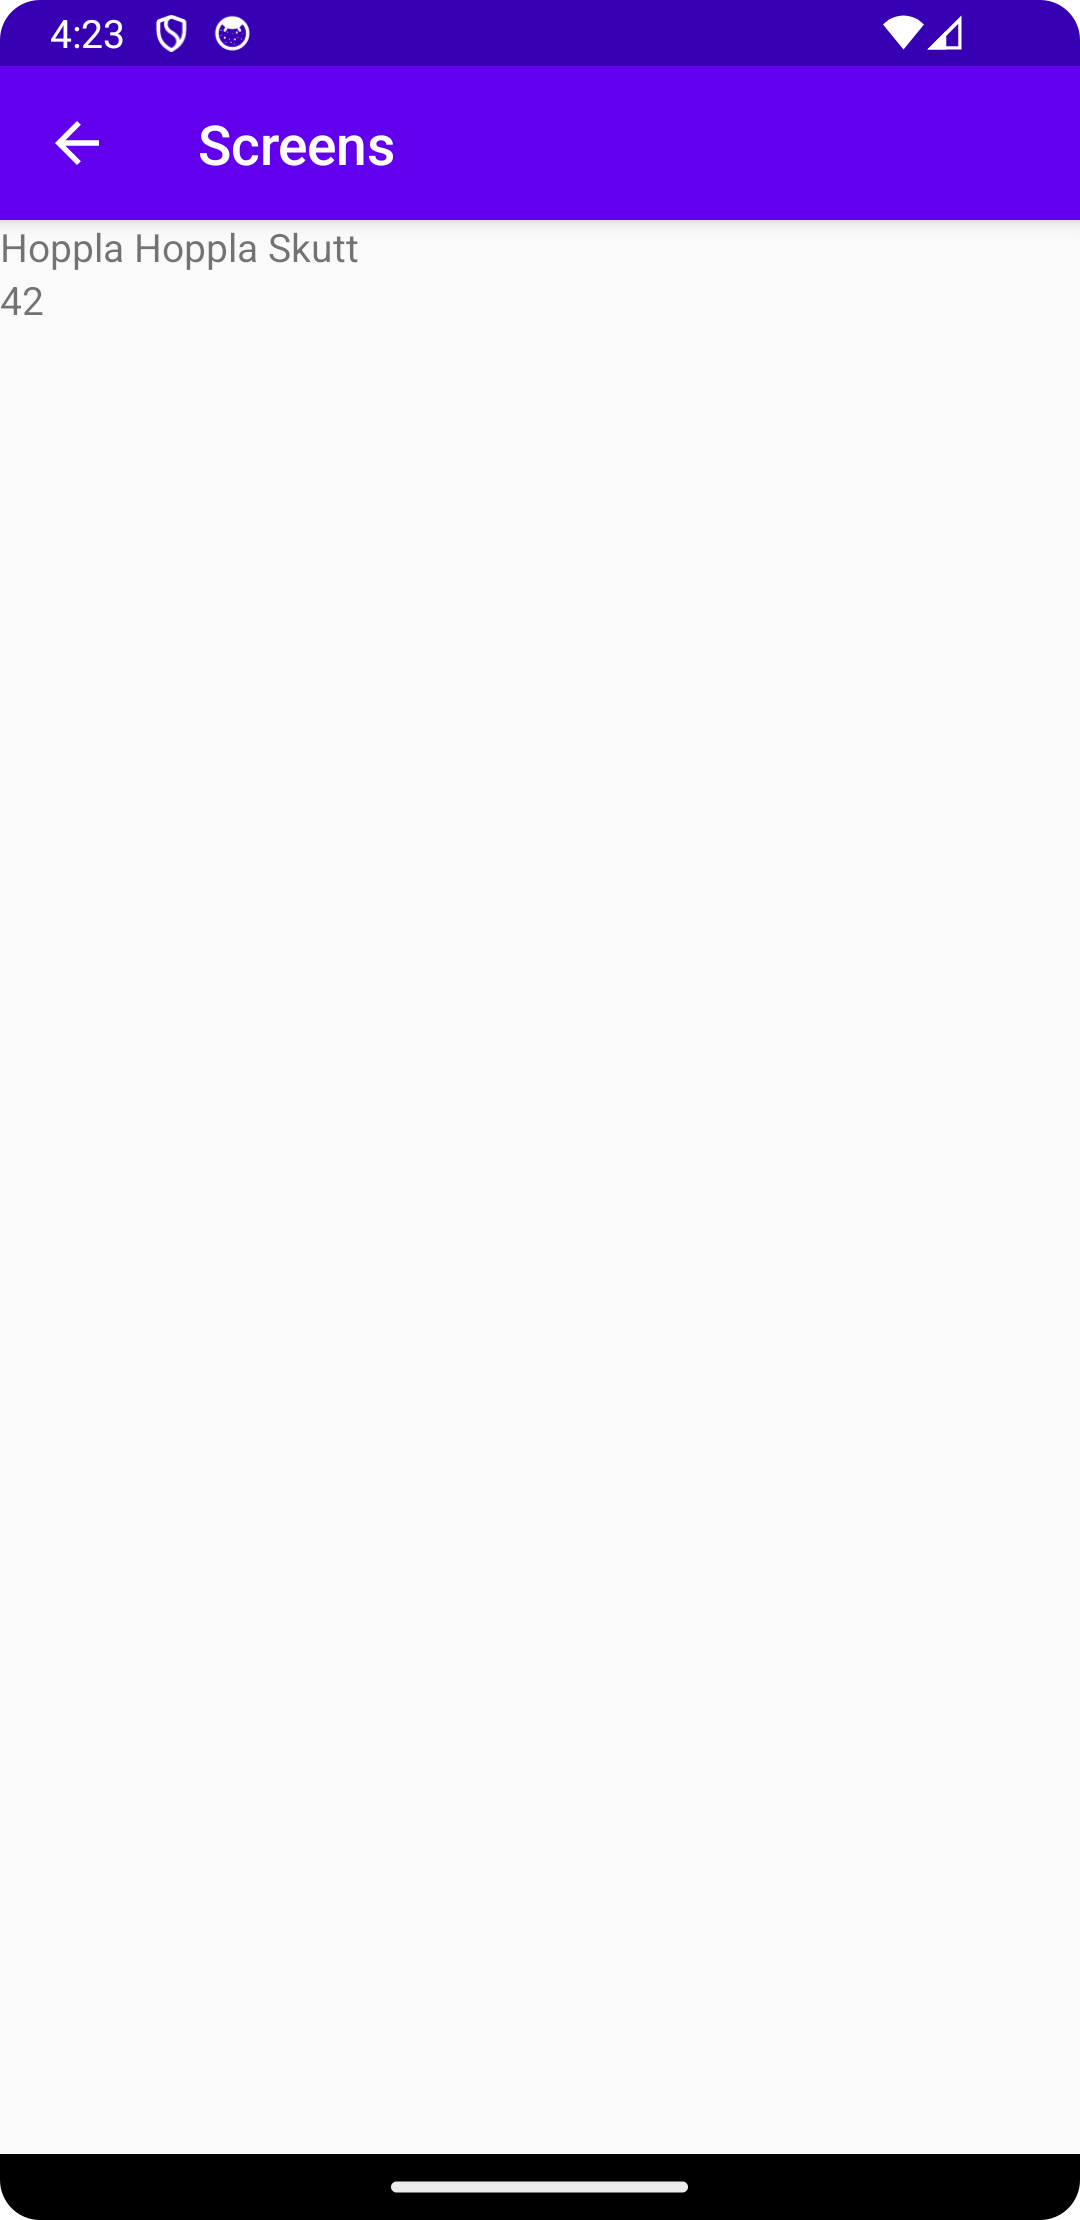
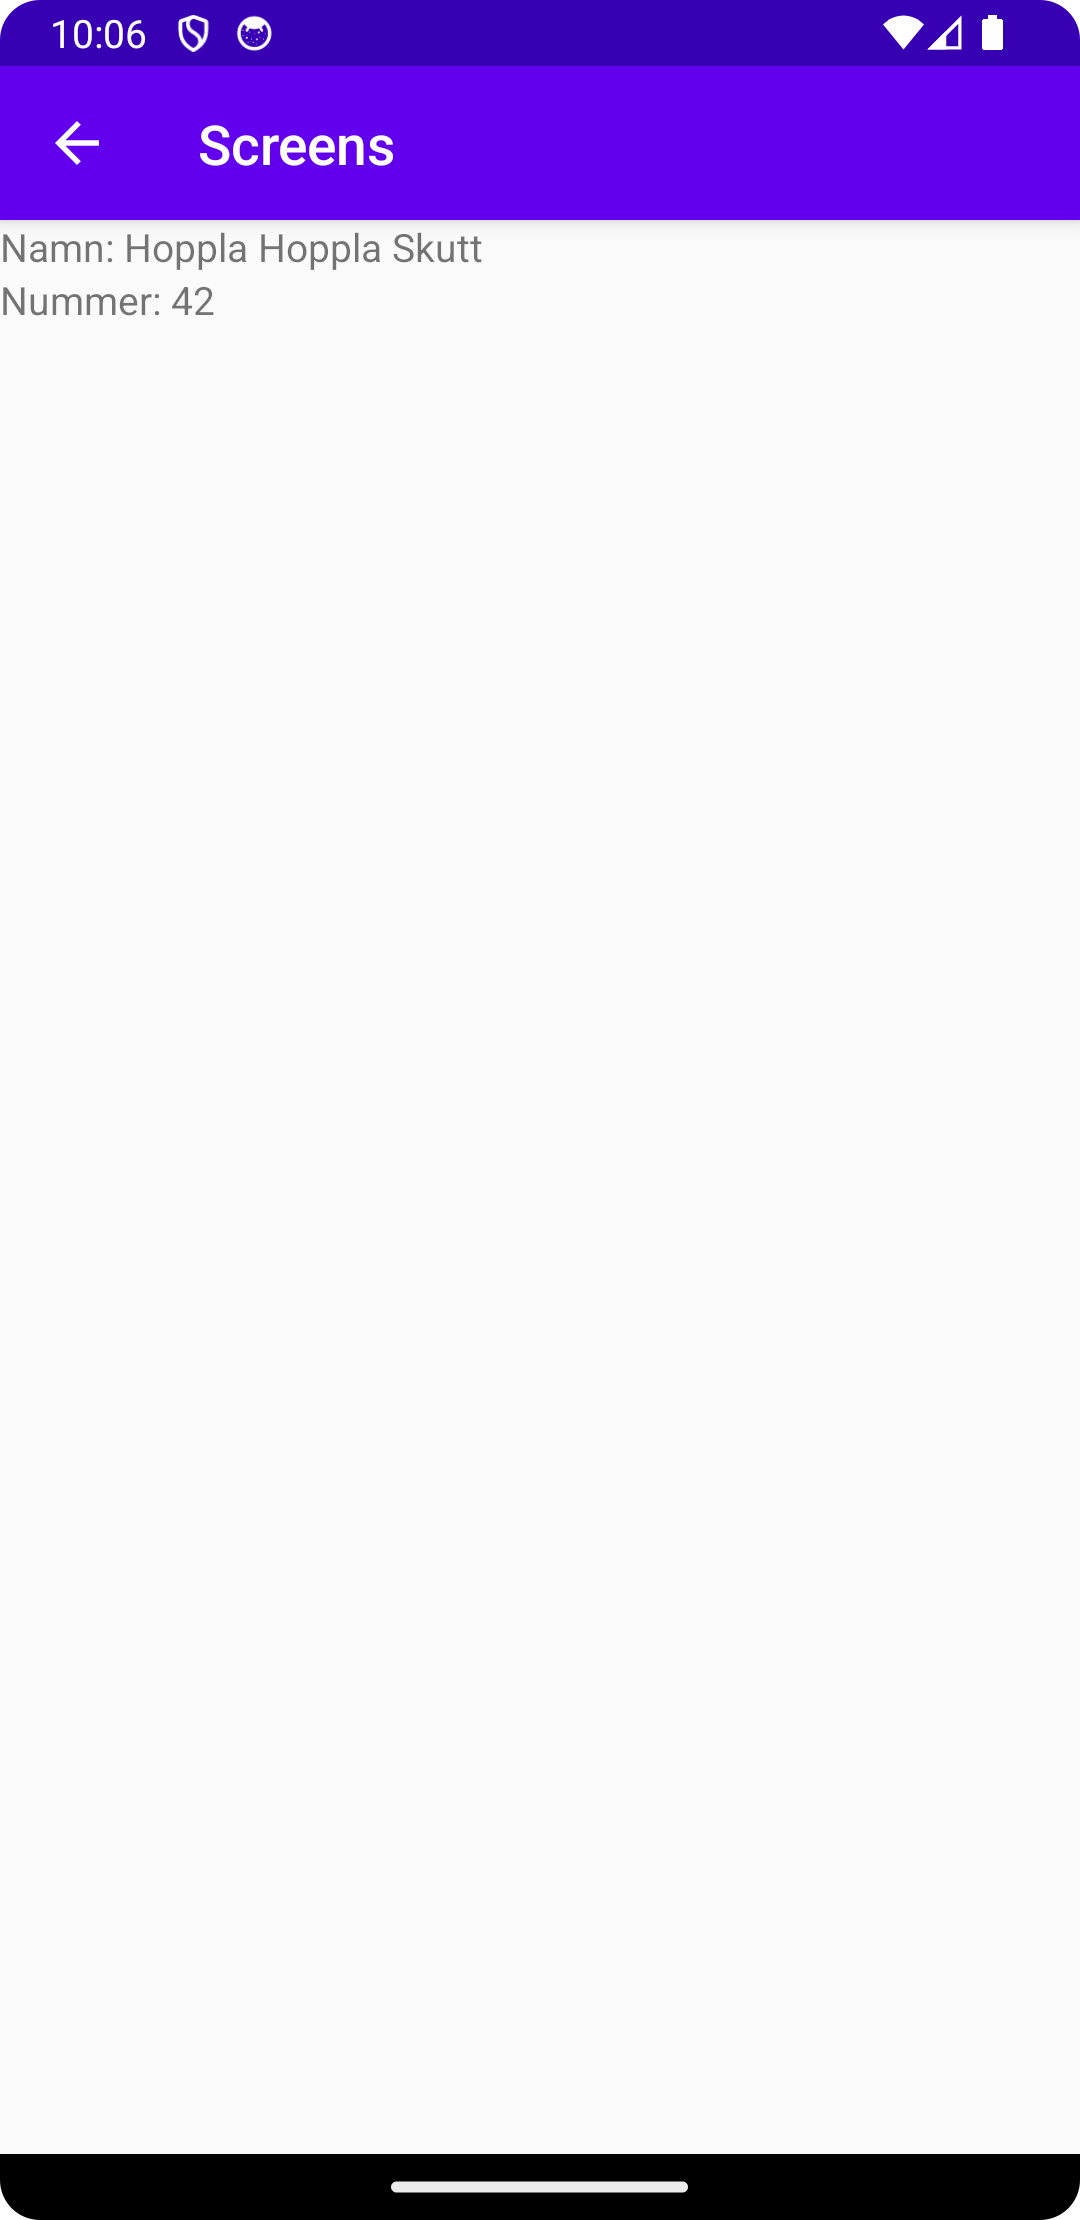
Små ändringar

Changed region(s): [[0.0, 0.0932, 0.4583, 0.1554], [0.0306, 0.0, 0.2444, 0.0311], [0.8861, 0.0, 0.9472, 0.0311]]

diff --git a/app/src/main/java/com/example/screens/HorseDisplay.java b/app/src/main/java/com/example/screens/HorseDisplay.java
@@ -19,10 +19,10 @@ public class HorseDisplay extends AppCompatActivity {
             int number = extras.getInt("number");
 
             TextView nameOnHorse = findViewById(R.id.horseName);
-            nameOnHorse.setText(name);
+            nameOnHorse.setText("Namn: "+name);
 
             TextView numberOnHorse = findViewById(R.id.horseNumber);
-            numberOnHorse.setText(""+number);
+            numberOnHorse.setText("Nummer: "+number);
         }
     }
 }
